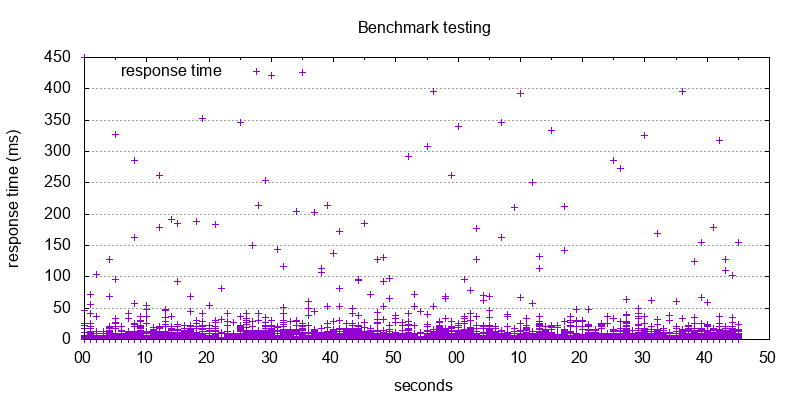
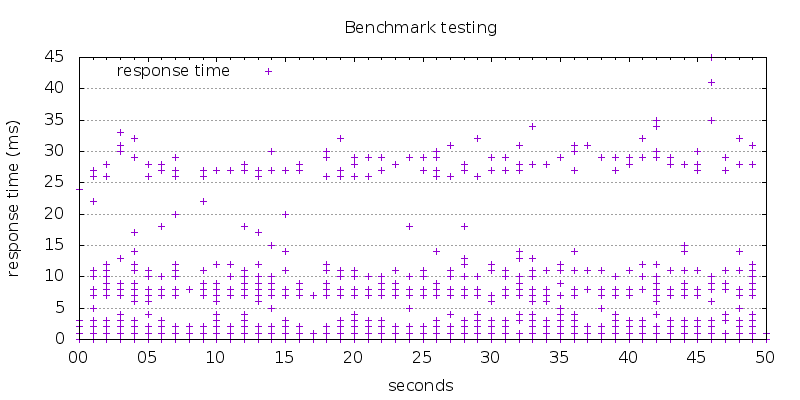
better stats, more pics, more automation

diff --git a/README.md b/README.md
@@ -140,34 +140,34 @@ This repo includes a Vagrant file for running a performance test. To run the tes
 $ vagrant up
 $ vagrant ssh
 $ cd /vagrant
-$ stack build
 $ bin/test
 ```
 
 `bin/test` will:
 
   1. Build the project.
+  1. Setup the queuing disciplines.
   1. Start the server.
   1. Run ab.
   1. Stop the server.
   1. Start the `reload` every 100 ms.
   1. Run ab.
 
-Below are the times without constant reloading and with constant reloading. Crucially no connections are dropped and there are no requests failures.
+Below are the times without constant reloading and with constant reloading. Crucially no connections are dropped and there are no requests failures. 100000 requests were run.
 
 #### Without Constant Reloading (Baseline)
-- mean: 0.475 ms
-- stddev: 0.3 ms
+- mean: 0.367 ms
+- stddev: 0.1 ms
 - 99%: 1 ms
-- max: 76 ms
+- max: 19 ms
 
 ![Baseline Scatter Plot](/baseline.png)
 
 #### With Constant Reloading
-- mean: 1.05 ms
-- stddev: 6.4 ms
-- 99%: 10 ms
-- max: 450 ms
+- mean: 0.492 ms
+- stddev: 1.1 ms
+- 99%: 1 ms
+- max: 45 ms
 
 ![Reloading Scatter Plot](/reloading.png)
 
@@ -198,7 +198,7 @@ One alternative would be to use an immutable blue/green deployment strategy, and
 
 ### Future Work
 
-An alternative design for utilizing `SO_REUSEPORT` is to create a parent process that keeps a pool of sockets and passes the file descriptions to the new children on reload. This is essentially the design that `nginx` has. The primary advantage is in the typical case we would not need to utilize the `plug` queuing discipline.
+An alternative design for utilizing `SO_REUSEPORT` is to create a parent process that keeps a pool of sockets and passes the file descriptions to the new children on reload. This is essentially the design that `nginx` ([nginx reload](http://nginx.org/en/docs/control.html?utm_source=socket-sharding-nginx-release-1-9-1&utm_medium=blog&_ga=1.38701153.370685645.1475165126#upgrade), [nginx and `SO_REUSEPORT`](https://www.nginx.com/blog/socket-sharding-nginx-release-1-9-1/)) has. The primary advantage is in the typical case we would not need to utilize the `plug` queuing discipline.
 
 However, changing the number of child process will still be problematic but we could utilize the `plug` queueing discipline approach Yelp developed utilized here.
 
